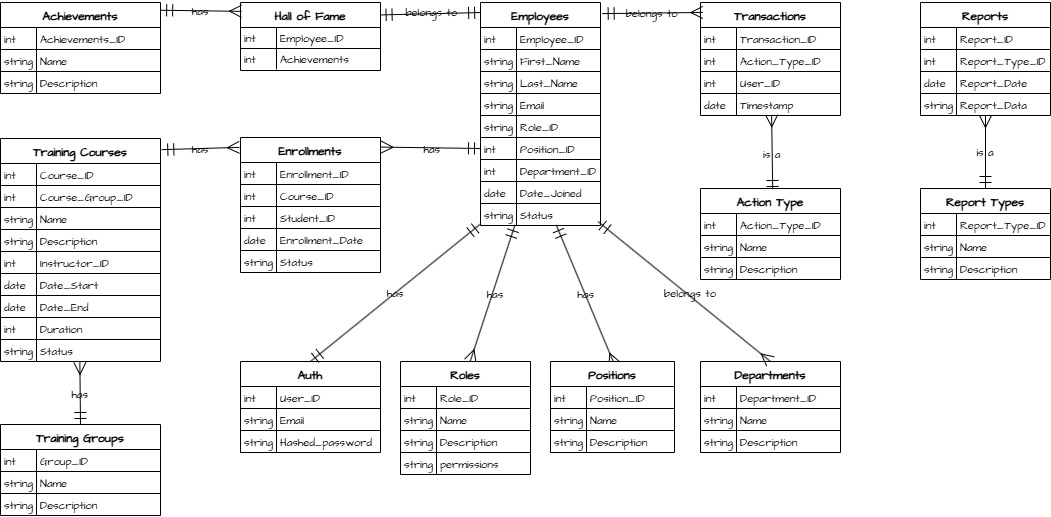
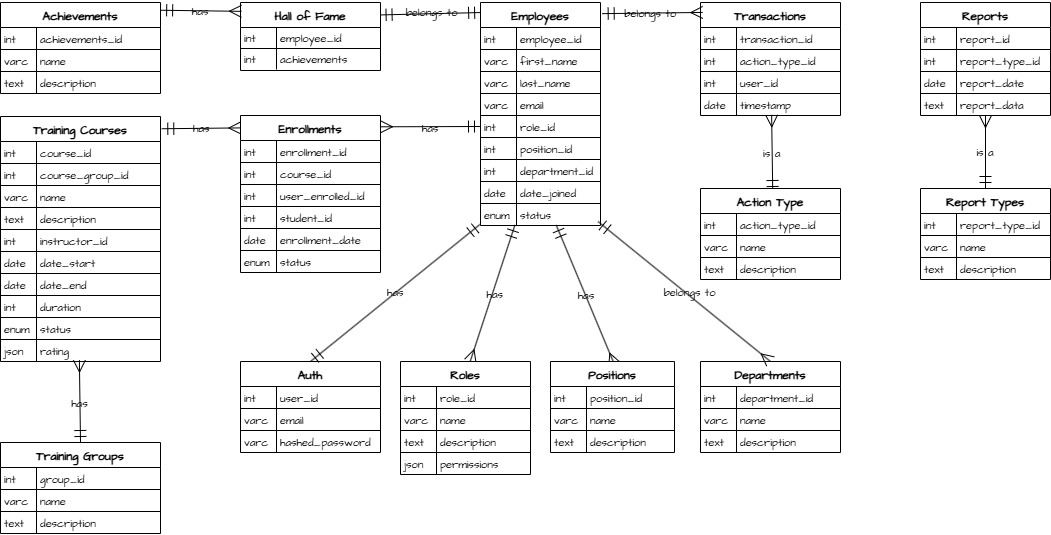
fix data schema

diff --git a/server/index.js b/server/index.js
@@ -77,7 +77,9 @@ app.get('/api/hall-of-fame/:id', (req, res) => {
 });
 
 app.get('/api/courses', (req, res) => {
-  const query = `
+  const courseId = req.query.id;
+  
+  let query = `
     SELECT 
       c.course_id, 
       c.name AS name, 
@@ -89,15 +91,21 @@ app.get('/api/courses', (req, res) => {
     FROM 
       training_courses c 
     LEFT JOIN 
-      training_groups g ON c.course_group_id = g.group_id`;
-
-  db.query(query, (error, results) => {
+      training_groups g ON c.course_group_id = g.group_id
+  `;
+  
+  if (courseId) {
+    query += ` WHERE c.course_id = ?`;
+  }
+  
+  db.query(query, courseId ? [courseId] : [], (error, results) => {
     if (error) {
       return res.status(500).json({ error: 'Database error' });
     }
     res.json(results);
   });
 });
+
 
 app.listen(5000, () => {
   console.log('Server started on port 5000');

diff --git a/src/pages/course.jsx b/src/pages/course.jsx
@@ -2,8 +2,8 @@ import React, { useEffect, useState } from 'react';
 import { useParams } from 'react-router-dom';
 import Course from '../components/course';
 
-const fetchCourseData = async (courseId) => {
-  const response = await fetch(`https://api.example.com/courses/${courseId}`);
+const fetchCourseData = async (course_id) => {
+  const response = await fetch(`http://localhost:5000/api/courses?id=${course_id}`);
   if (!response.ok) {
     throw new Error('Failed to fetch course data');
   }

diff --git a/src/App.jsx b/src/App.jsx
@@ -28,7 +28,7 @@ const App = () => {
         <Route path="/" element={<DashboardPage />} />
         <Route path="/dashboard" element={<DashboardPage />} />
         <Route path="/courses" element={<CoursesPage />} />
-        <Route path="/course/:id" element={<CoursePage />} /> 
+        <Route path="/course" element={<CoursePage />} /> 
       </Routes>
     </>
   );
